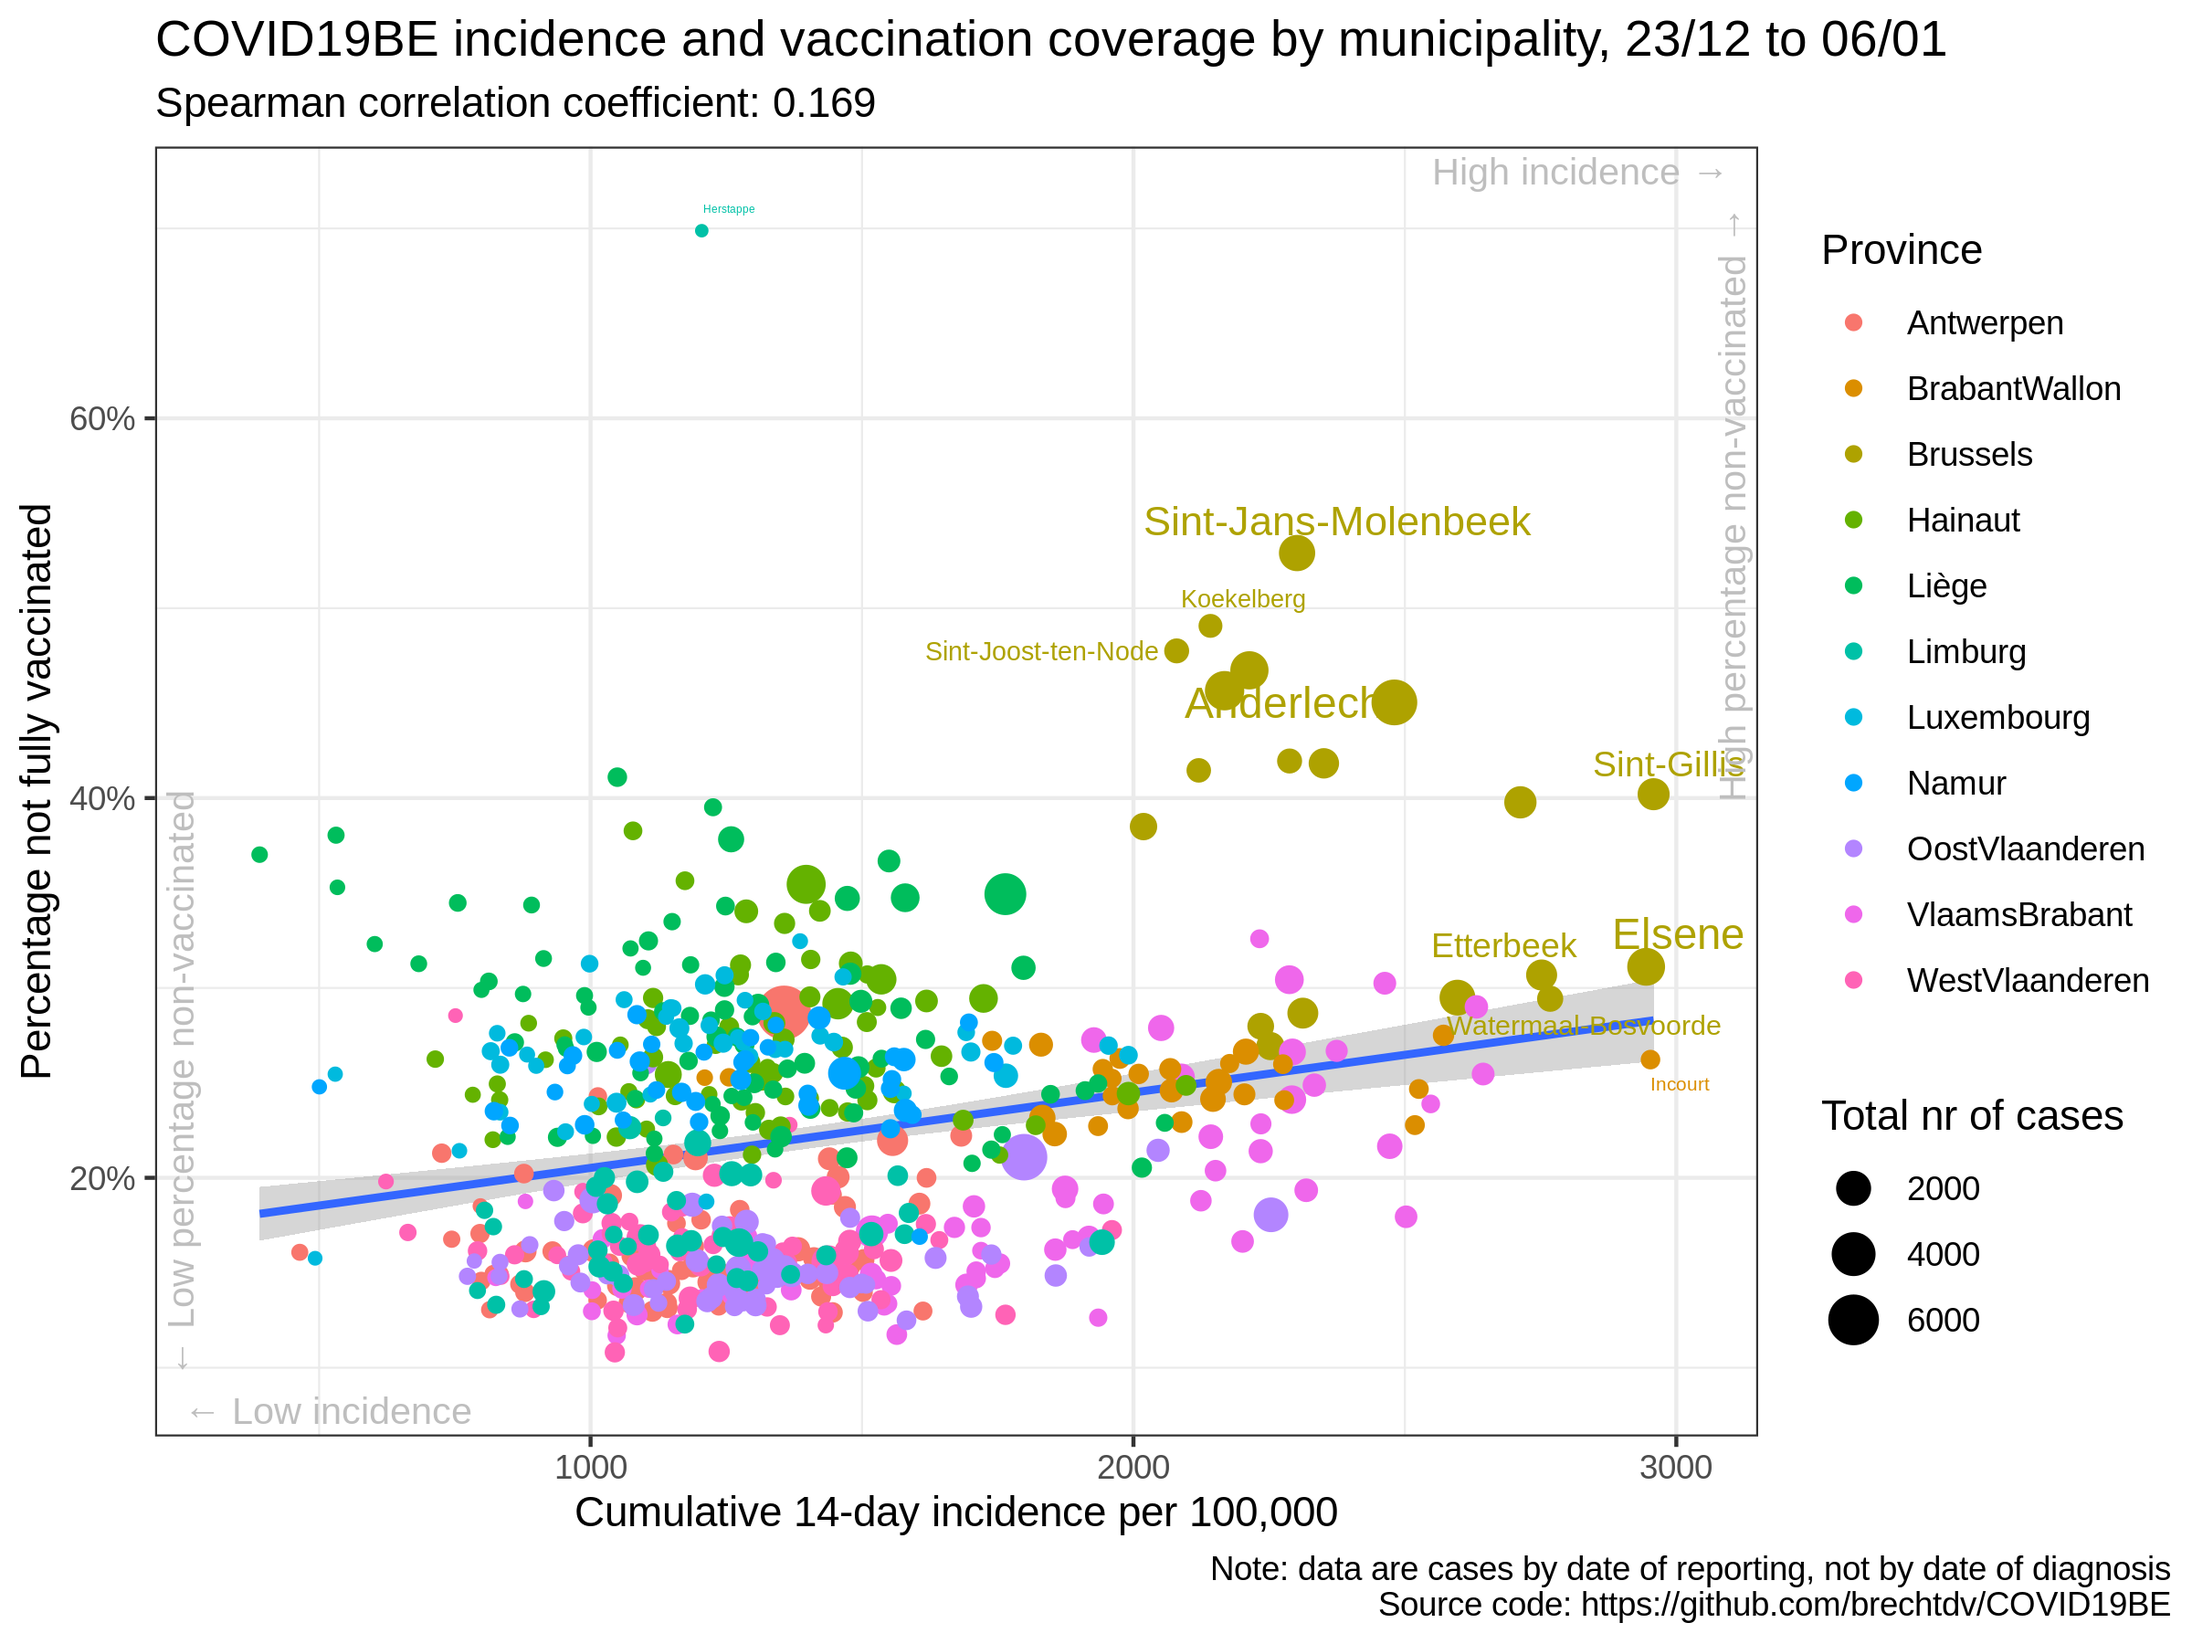
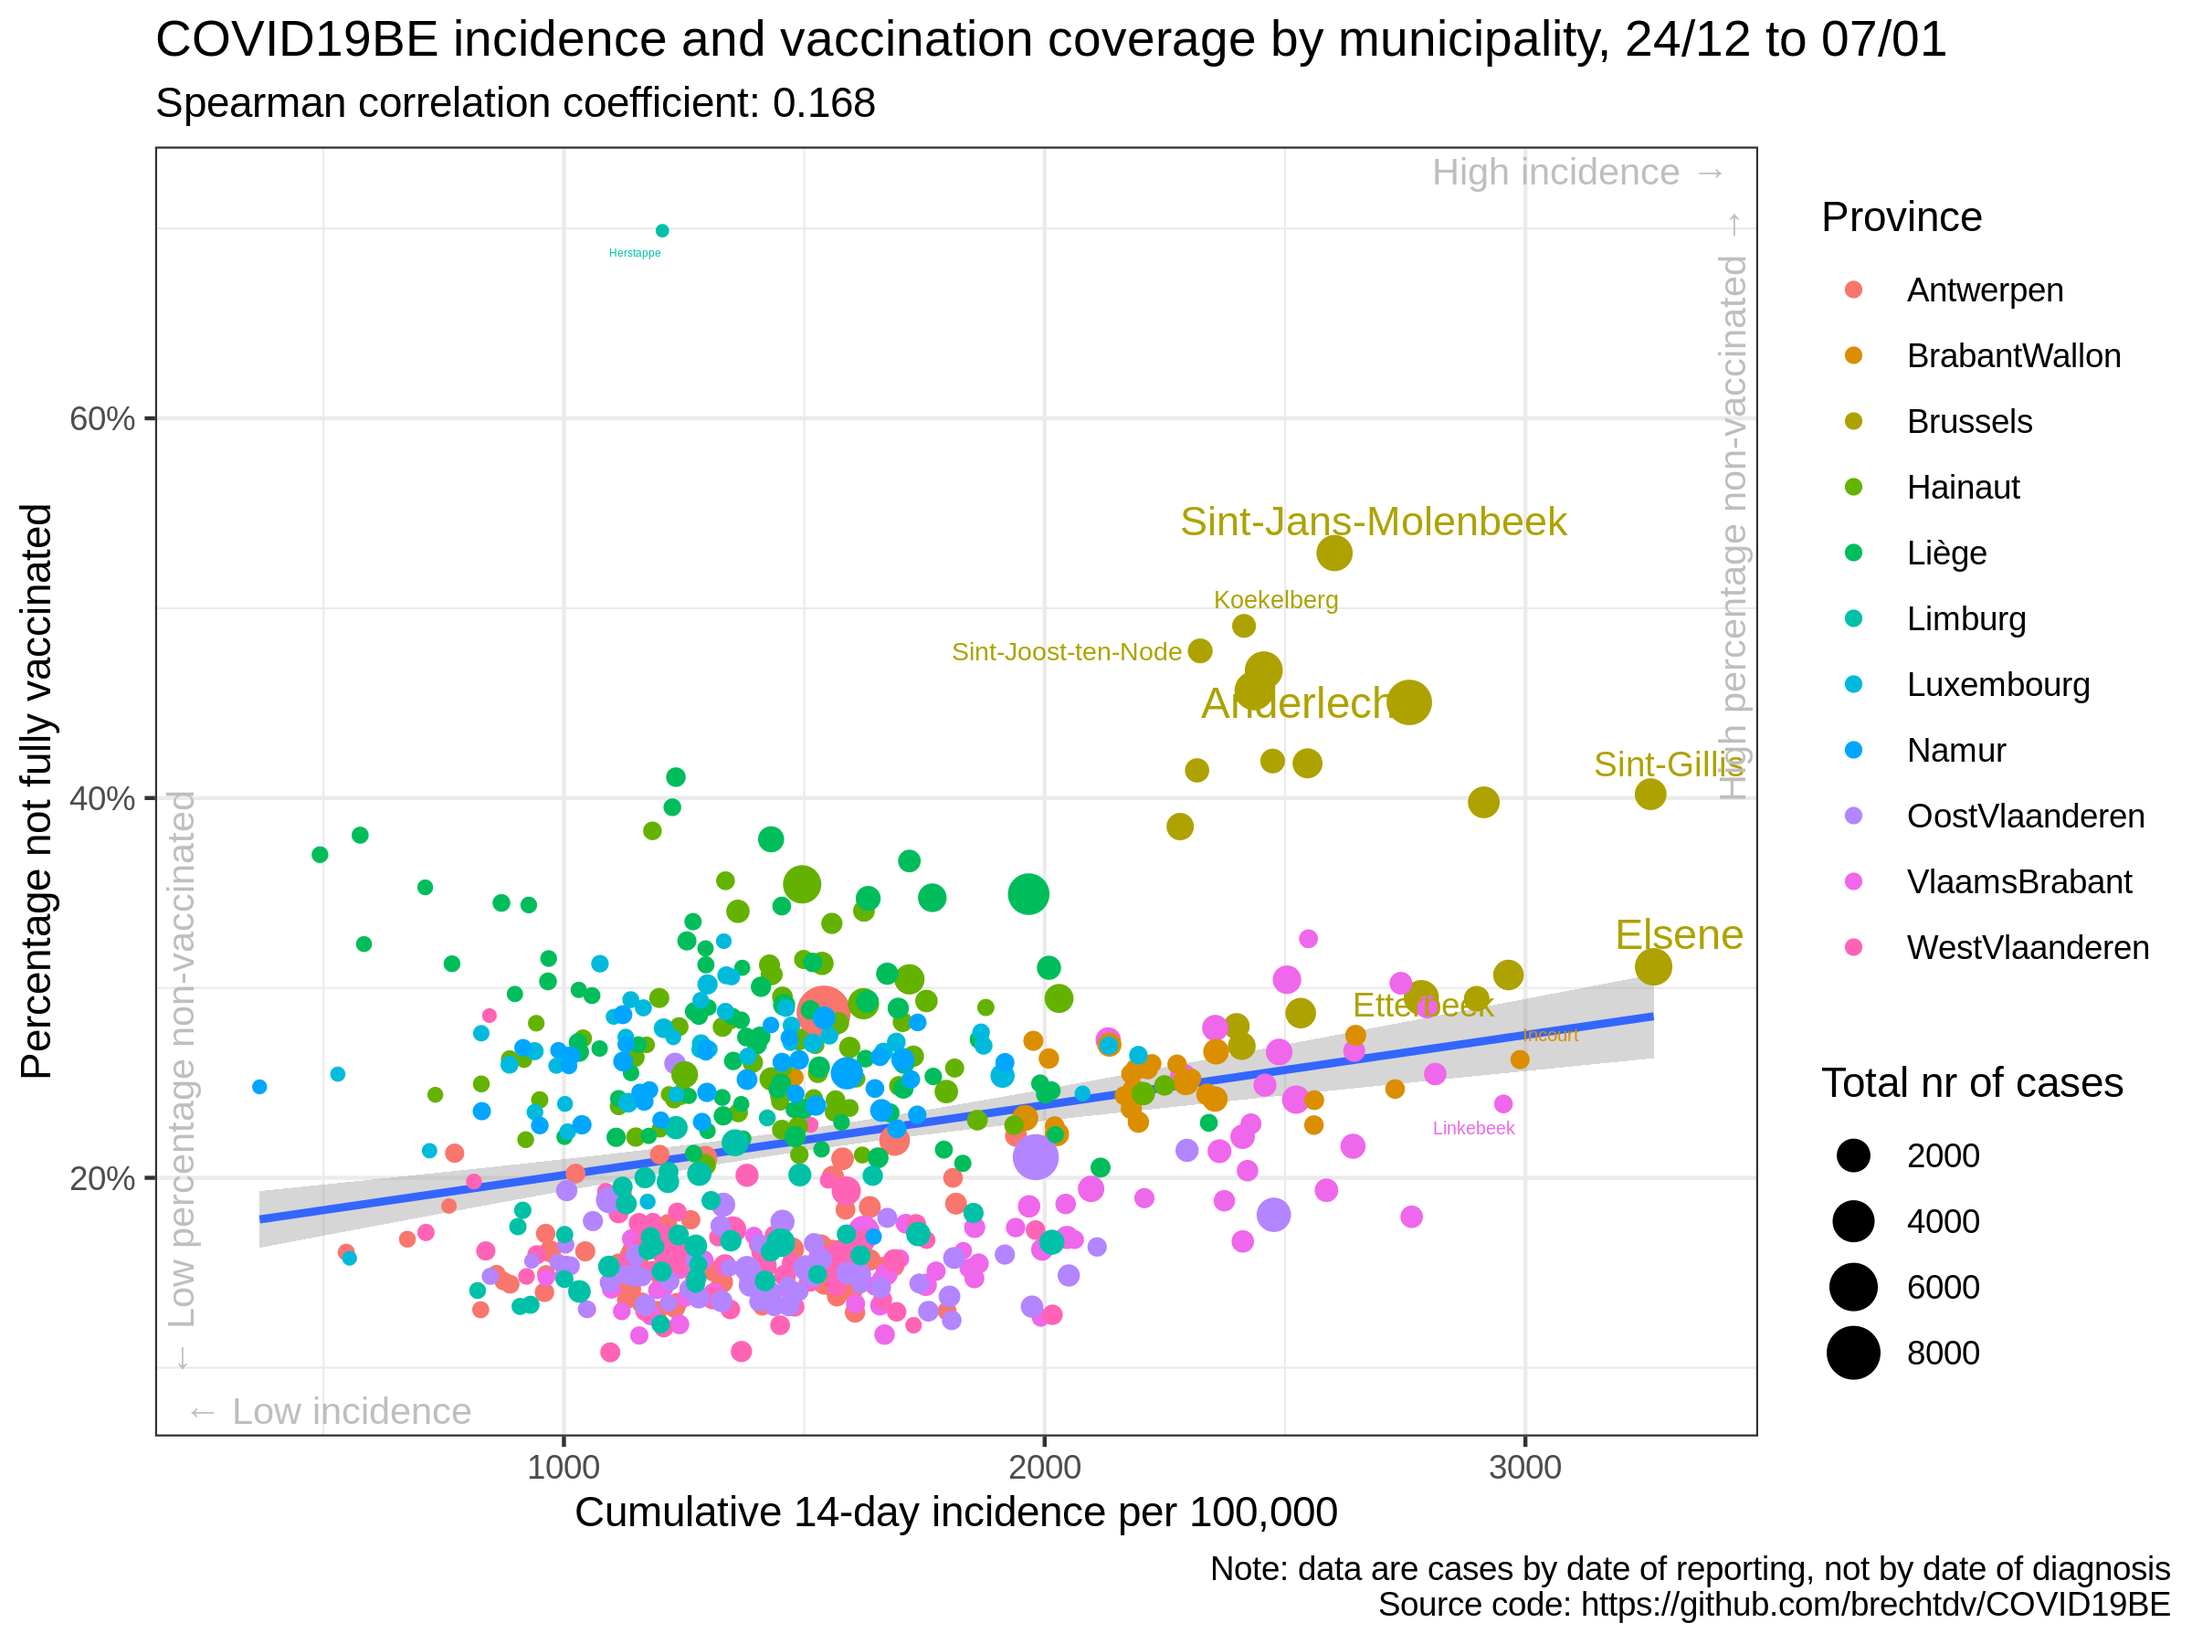
update situation

diff --git a/vaccination/README.md b/vaccination/README.md
@@ -13,18 +13,18 @@
 
 |                | estimate.rho | p.value |
 | :------------- | -----------: | ------: |
-| Antwerpen      |        0.101 |   0.407 |
-| BrabantWallon  |        0.074 |   0.713 |
-| Brussels       |      \-0.367 |   0.123 |
-| Hainaut        |        0.078 |   0.524 |
-| Liège          |      \-0.348 |   0.001 |
-| Limburg        |        0.200 |   0.203 |
+| Antwerpen      |        0.117 |   0.340 |
+| BrabantWallon  |        0.080 |   0.691 |
+| Brussels       |      \-0.153 |   0.531 |
+| Hainaut        |        0.086 |   0.482 |
+| Liège          |      \-0.338 |   0.002 |
+| Limburg        |        0.256 |   0.102 |
 | Luxembourg     |        0.274 |   0.072 |
-| Namur          |        0.027 |   0.870 |
-| OostVlaanderen |      \-0.003 |   0.982 |
-| VlaamsBrabant  |        0.767 |   0.000 |
-| WestVlaanderen |      \-0.130 |   0.303 |
-| Belgium        |        0.169 |   0.000 |
+| Namur          |      \-0.016 |   0.926 |
+| OostVlaanderen |      \-0.029 |   0.825 |
+| VlaamsBrabant  |        0.799 |   0.000 |
+| WestVlaanderen |      \-0.141 |   0.267 |
+| Belgium        |        0.168 |   0.000 |
 
 ### Data source
 
